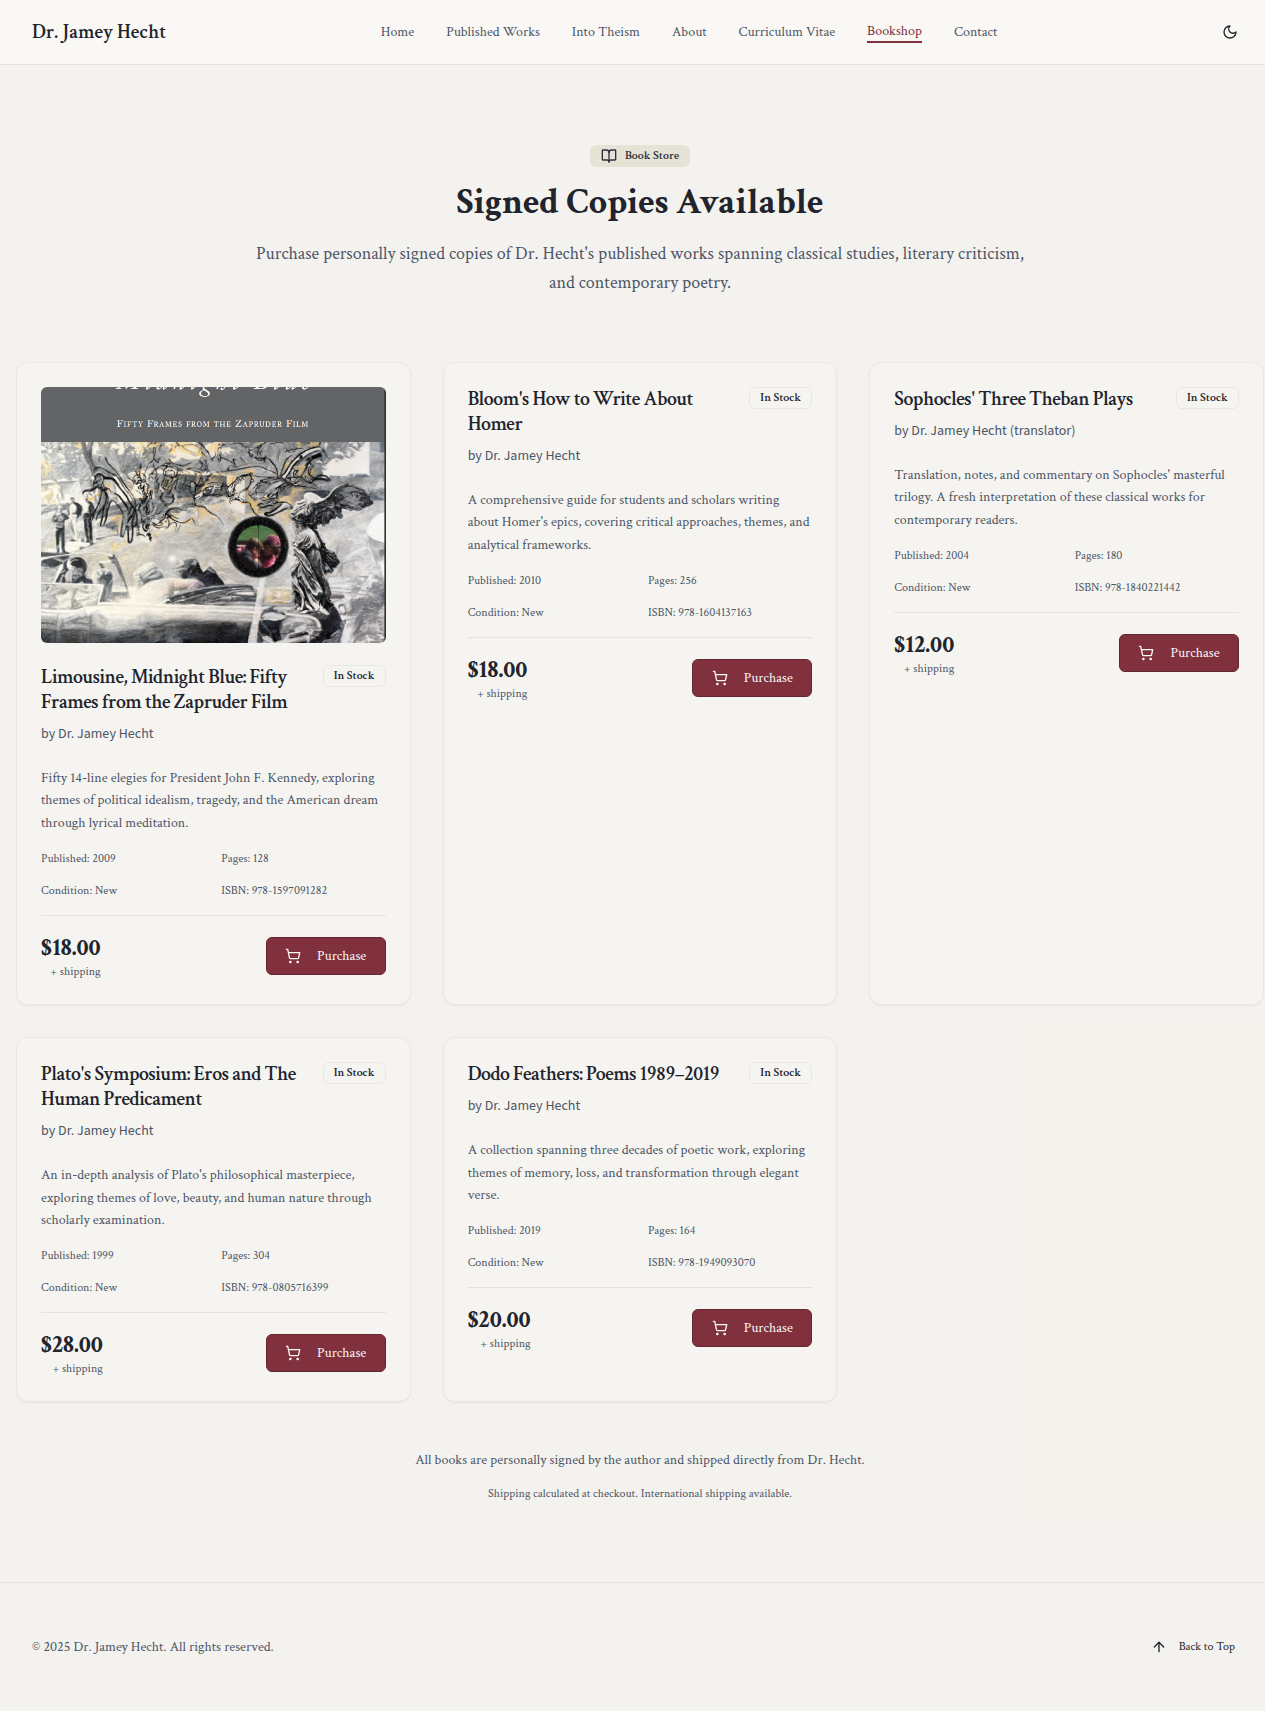
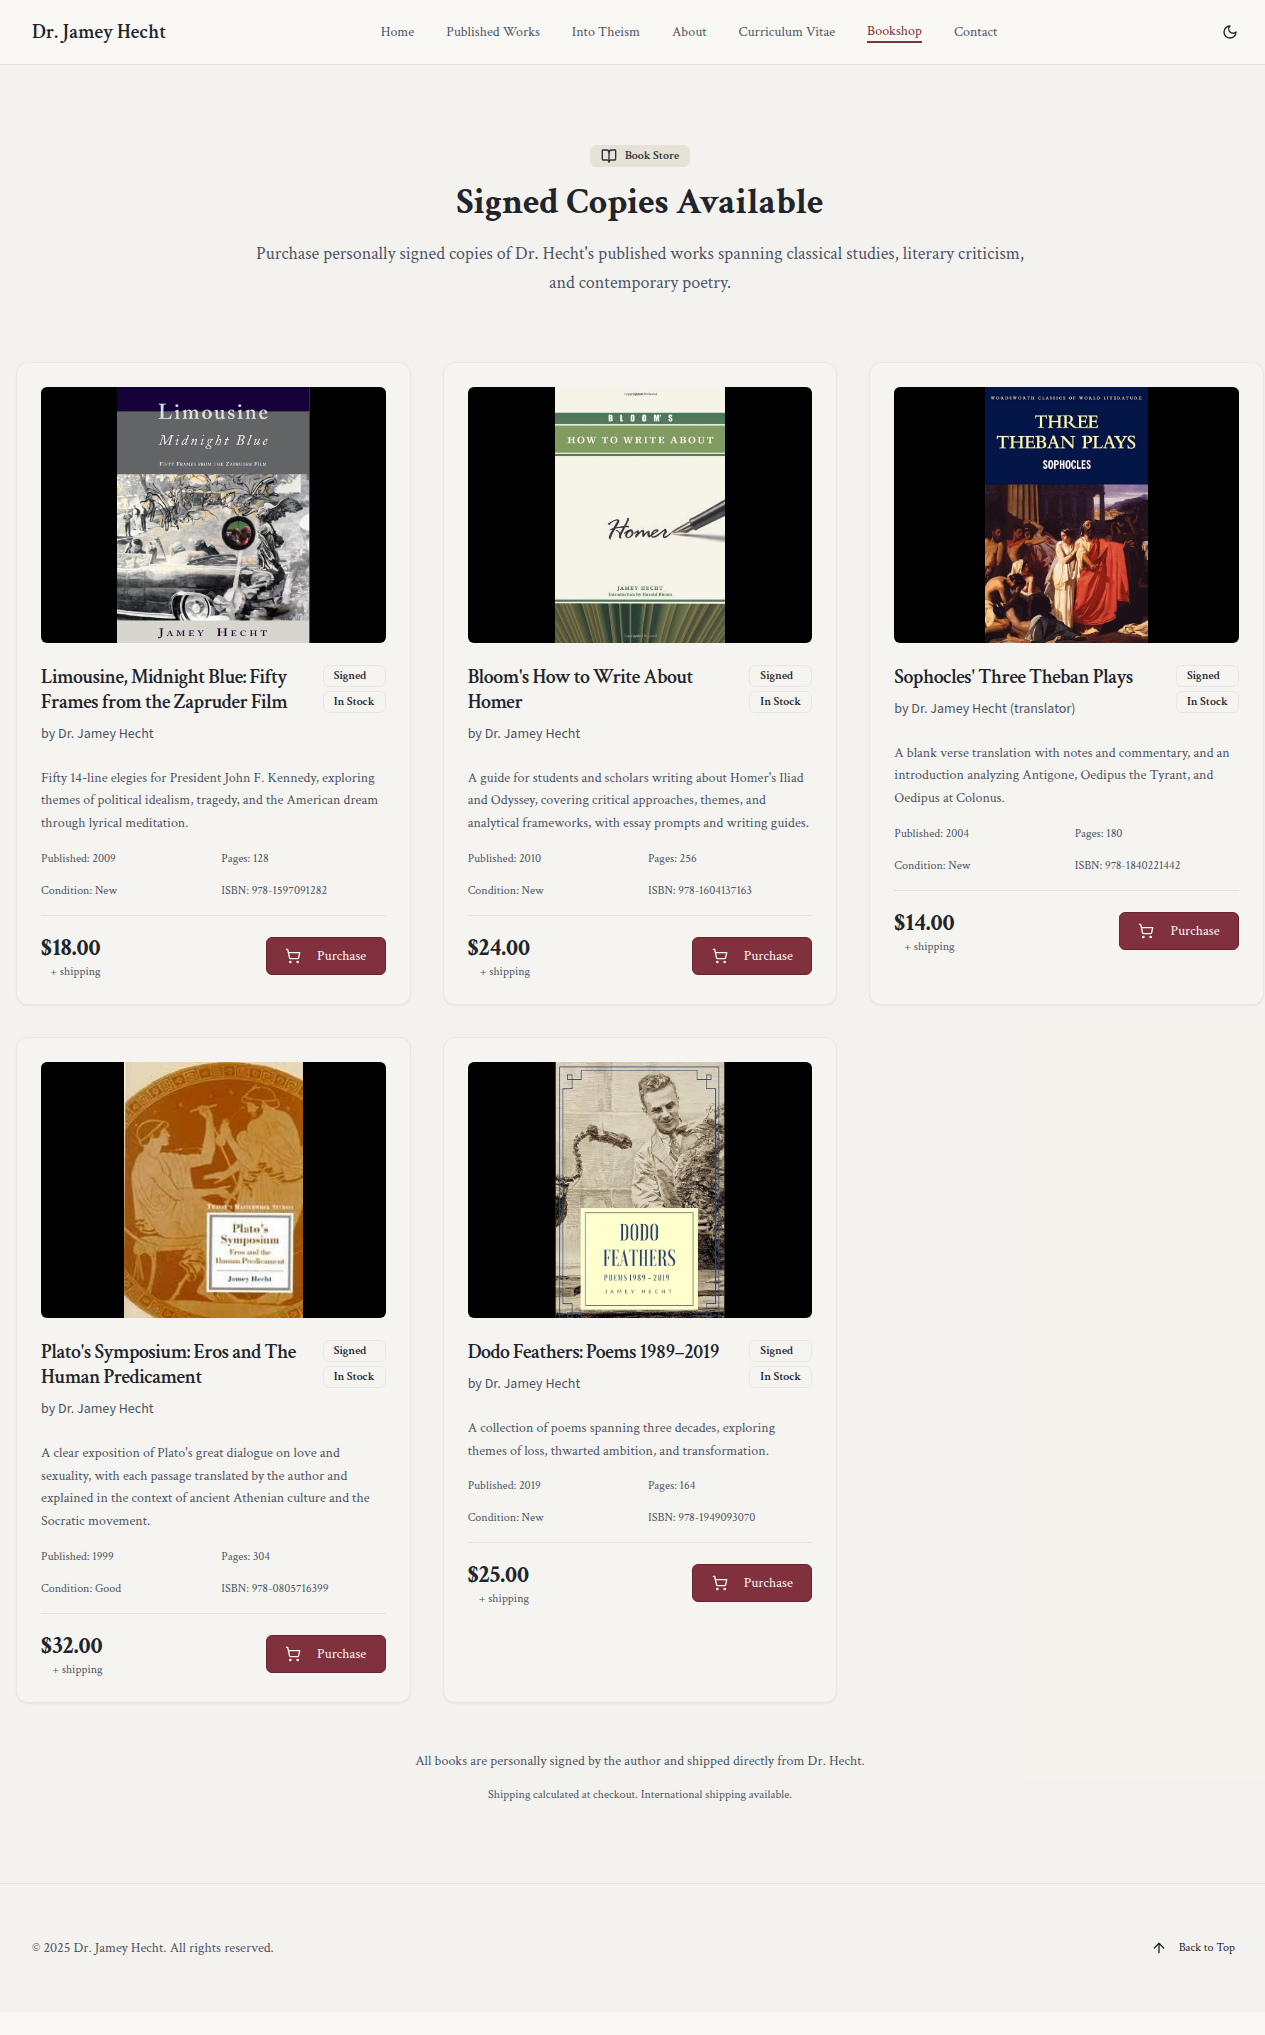
Update book display and pricing in the online store
Adjusted image rendering for book covers to fit within their containers with a black border. Added "Signed" badge to all book listings. Updated the condition of the Plato book to "Good" and raised the price of "Dodo Feathers" to $25.00.

Replit-Commit-Author: Agent
Replit-Commit-Session-Id: 65c8e8f9-8fd7-49b2-8ee3-8ffc9ade5b76
Replit-Commit-Checkpoint-Type: intermediate_checkpoint
Replit-Commit-Screenshot-Url: https://storage.googleapis.com/screenshot-production-us-central1/ccfc7829-fbbd-411c-a24b-e2809119c1f9/65c8e8f9-8fd7-49b2-8ee3-8ffc9ade5b76/icRYQjV

diff --git a/client/src/components/BookStoreSection.tsx b/client/src/components/BookStoreSection.tsx
@@ -114,17 +114,17 @@ export default function BookStoreSection() {
                   };
                   const coverImage = coverMap[book.id];
                   return coverImage ? (
-                    <div className="mb-4">
+                    <div className="mb-4 bg-black rounded-md">
                       <img 
                         src={coverImage} 
                         alt={`Cover of ${book.title}`}
-                        className="w-full h-64 object-cover rounded-md"
+                        className="w-full h-64 object-contain rounded-md"
                         data-testid={`img-cover-${book.id}`}
                       />
                     </div>
                   ) : null;
                 })()}
-                <div className="flex items-start justify-between">
+                <div className="flex items-start justify-between gap-2">
                   <div className="flex-1">
                     <CardTitle className="font-serif text-xl leading-tight mb-2">
                       {book.title}
@@ -133,9 +133,14 @@ export default function BookStoreSection() {
                       by {book.author}
                     </p>
                   </div>
-                  <Badge variant="outline" className="ml-2" data-testid={`status-${book.id}`}>
-                    {book.availability}
-                  </Badge>
+                  <div className="flex flex-col gap-1">
+                    <Badge variant="outline" data-testid={`badge-signed-${book.id}`}>
+                      Signed
+                    </Badge>
+                    <Badge variant="outline" data-testid={`status-${book.id}`}>
+                      {book.availability}
+                    </Badge>
+                  </div>
                 </div>
               </CardHeader>
               

diff --git a/shared/schema.ts b/shared/schema.ts
@@ -84,7 +84,7 @@ export const BOOK_CATALOG: Book[] = [
     isbn: "978-0805716399",
     year: 1999,
     pages: 304,
-    condition: "New",
+    condition: "Good",
     availability: "In Stock",
     coverImage: "/attached_assets/31M4XpaocbL._AC_CR0,0,0,0_SX480_SY360__1759200114490.jpg"
   },
@@ -92,7 +92,7 @@ export const BOOK_CATALOG: Book[] = [
     id: "dodo-feathers",
     title: "Dodo Feathers: Poems 1989–2019",
     author: "Dr. Jamey Hecht",
-    price: 20.00,
+    price: 25.00,
     description: "A collection of poems spanning three decades, exploring themes of loss, thwarted ambition, and transformation.",
     isbn: "978-1949093070",
     year: 2019,
